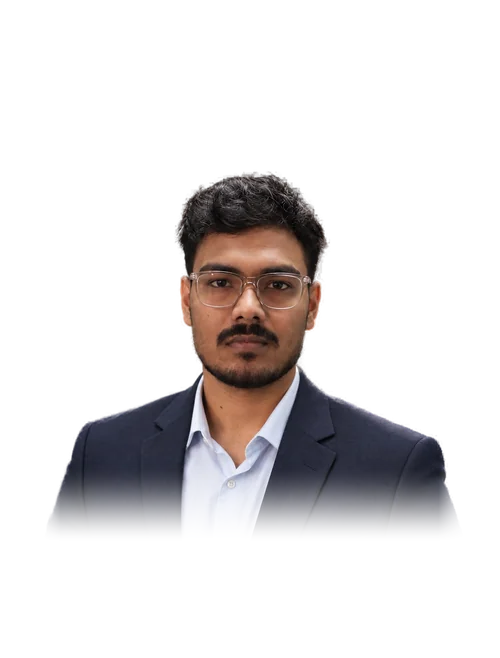
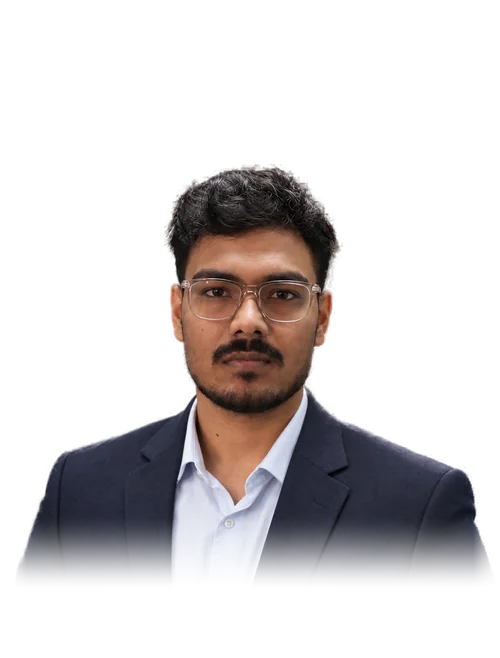
Add full team with framed photos; move rounds to 5 and 10 Oct
- Team: all heads from the CESA sheet with background-removed photos
  framed at a consistent head size; taller name shade
- Event flow: Round 1 closes 5 Oct, offline round on 10 Oct, shortlisting
  step removed; hero countdown and date line moved to 10 Oct
- Unique keys for timeline steps

Changed region(s): [[0.03, 0.2432, 0.99, 0.8815]]

diff --git a/src/team.js b/src/team.js
@@ -5,12 +5,17 @@ export const keepers = [
   { name: 'Rohit Soneji', role: 'Vice Chairperson', photo: 'rohit', github: 'https://github.com/SwiftByte6', linkedin: 'https://www.linkedin.com/in/rohit-soneji-9483a5344/' },
 ]
 
+// Grouped by domain: head first, then co-head
 export const heads = [
-  { name: 'Aditya Pathak', role: 'Technical Head' },
+  { name: 'Aditya Pathak', role: 'Technical Head', photo: 'aditya-pathak', github: 'https://github.com/1115ADITYA', linkedin: 'https://www.linkedin.com/in/aditya-pathak-26308b37a' },
   { name: 'Aditya Thombe', role: 'Technical Co-Head', photo: 'aditya-thombe', github: 'https://github.com/AdityaThombe', linkedin: 'https://www.linkedin.com/in/aditya-thombe-15b731395' },
-  { name: 'Piyusha Ghadigaonkar', role: 'Design Head', github: 'https://github.com/piyusha1961', linkedin: 'https://www.linkedin.com/in/piyusha-ghadigaonkar-0b1202360/' },
+  { name: 'Piyusha Ghadigaonkar', role: 'Design Head', photo: 'piyusha', github: 'https://github.com/piyusha1961', linkedin: 'https://www.linkedin.com/in/piyusha-ghadigaonkar-0b1202360/' },
+  { name: 'Aryan Nagaonkar', role: 'Design Co-Head', photo: 'aryan', github: 'https://github.com/aryan2557', linkedin: 'https://www.linkedin.com/in/aryannagaonkar/' },
+  { name: 'Pravajya Bansod', role: 'Documentation Head', photo: 'pravajya', github: 'https://github.com/PravajyaB', linkedin: 'https://www.linkedin.com/in/pravajya-bansod-20439b341/' },
+  { name: 'Dashmini Walke', role: 'Documentation Co-Head', photo: 'dashmini', github: 'https://github.com/walkedashmini-spec', linkedin: 'https://www.linkedin.com/in/dashmini-walke-002138389/' },
   { name: 'Punit Saini', role: 'Events & Ops Head', photo: 'punit', github: 'https://github.com/Punit1787', linkedin: 'https://www.linkedin.com/in/1787-punit-saini' },
   { name: 'Aakruti Ghag', role: 'Events & Ops Co-Head', photo: 'aakruti', github: 'https://github.com/Aakruti2007', linkedin: 'https://www.linkedin.com/in/aakrutighag' },
-  { name: 'Manya Shetty', role: 'Marketing Co-Head', github: 'https://github.com/codedbymanya', linkedin: 'https://www.linkedin.com/in/manya-shetty-63bb04374/' },
-  { name: 'Aman Patil', role: 'Media Co-Head', github: 'https://github.com/amanpa869', linkedin: 'https://www.linkedin.com/in/aman-patil-3bab7a3b8/' },
+  { name: 'Ranveer Patil', role: 'Media Head', github: 'https://github.com/Ranveer-Patil', linkedin: 'https://linkedin.com/in/ranveer-patil-6992513b6' },
+  { name: 'Aman Patil', role: 'Media Co-Head', photo: 'aman', github: 'https://github.com/amanpa869', linkedin: 'https://www.linkedin.com/in/aman-patil-3bab7a3b8/' },
+  { name: 'Manya Shetty', role: 'Marketing Co-Head', photo: 'manya', github: 'https://github.com/codedbymanya', linkedin: 'https://www.linkedin.com/in/manya-shetty-63bb04374/' },
 ]

diff --git a/src/components/Journey.jsx b/src/components/Journey.jsx
@@ -17,22 +17,17 @@ const steps = [
     points: ['Registrations open for Round 1', 'Participants submit their design entry', 'Teams/participants can register through Unstop'],
   },
   {
-    dot: [127.4, 498.6], date: '2nd Oct', dateAt: [156, 2810], at: [518, 2672], w: 540, bodyW: 400,
+    dot: [127.4, 498.6], date: '5th Oct', dateAt: [156, 2810], at: [518, 2672], w: 540, bodyW: 400,
     title: 'Round 1 Submission Closes',
     points: ['Final submission deadline for Round 1', 'Entries will be reviewed for shortlisting'],
   },
   {
-    dot: [176.4, 861.6], date: '5th Oct', dateAt: [501, 3163], at: [39, 3116], w: 369, bodyW: 260, lineW: 232,
-    title: 'Shortlisting Announcement',
-    points: ['Shortlisted participants announced', 'Selected participants receive further instructions'],
-  },
-  {
-    dot: [244.4, 1159.6], date: '9th Oct', dateAt: [474, 3393], at: [148, 3536], w: 573, bodyW: 432,
+    dot: [244.4, 1159.6], date: '10th Oct', dateAt: [474, 3393], at: [148, 3536], w: 573, bodyW: 432,
     title: 'FoF Seminar & Design Challenge',
     points: ['Seminar by Friends of Figma speakers', 'UI/UX, design thinking and Figma techniques', '3 problem statements revealed for the competition'],
   },
   {
-    dot: [598.4, 1053.6], date: '9th Oct', dateAt: [729, 3292], at: [753, 3453], w: 400, bodyW: 360,
+    dot: [598.4, 1053.6], date: '10th Oct', dateAt: [729, 3292], at: [753, 3453], w: 400, bodyW: 360,
     title: 'Final Presentation & Evaluation',
     points: ['Develop and present your UI/UX solution', 'Jury evaluation', 'Winner declaration'],
   },
@@ -146,7 +141,7 @@ export default function Journey() {
         </svg>
 
         {steps.map((s, i) => (
-          <div key={s.date}>
+          <div key={s.title}>
             <p className="ms__date" data-step={i} style={{ left: X(s.dateAt[0]), top: Y(s.dateAt[1]) }}>{s.date}</p>
             <div className="ms" data-step={i} style={{ left: X(s.at[0]), top: Y(s.at[1]), width: W(s.w) }}>
               <h3 className="ms__title">{s.title}</h3>
@@ -167,7 +162,7 @@ export default function Journey() {
       {/* Mobile: vertical timeline */}
       <ol className="journey__list" ref={listRef}>
         {steps.map((s, i) => (
-          <li key={s.date} data-lstep={i}>
+          <li key={s.title} data-lstep={i}>
             <span className="journey__list-dot" />
             <p className="ms__date">{s.date}</p>
             <h3 className="ms__title">{s.title}</h3>

diff --git a/src/components/Hero.jsx b/src/components/Hero.jsx
@@ -3,7 +3,7 @@ import { img, reducedMotion, scrollToId, useCountdown } from '../hooks'
 import { ExploreButton, RegisterButton } from './Buttons'
 
 // Offline designathon (finale) start — from the Unstop brief. Set the registration link here.
-export const EVENT_START = new Date('2026-10-09T10:00:00+05:30')
+export const EVENT_START = new Date('2026-10-10T10:00:00+05:30')
 export const REGISTER_URL = '#'
 
 // Scene layers on the 1440×1024 Figma frame. m = mouse parallax strength
@@ -80,7 +80,7 @@ export default function Hero() {
         <p className="hero__sub">
           An inter-collegiate UI/UX designathon <br />where ideas meet imagination…
         </p>
-        <p className="hero__when">Offline Designathon · 9 Oct 2026 · VIT, Mumbai</p>
+        <p className="hero__when">Offline Designathon · 10 Oct 2026 · VIT, Mumbai</p>
         <Countdown />
         <div className="hero__cta">
           <RegisterButton href="https://unstop.com/hackathons/drishti-vidyalankar-institute-of-technology-vit-mumbai-1755397" />

diff --git a/index.html b/index.html
@@ -10,7 +10,7 @@
     <meta name="viewport" content="width=device-width, initial-scale=1.0" />
     <meta name="theme-color" content="#0b0f3b" />
     <title>Drishti · CESA × FOF</title>
-    <meta name="description" content="DRISHTI — a UI/UX Designathon by CESA, Vidyalankar Institute of Technology (VIT), Mumbai, with Friends of Figma Mumbai. Offline finale on 9 Oct 2026." />
+    <meta name="description" content="DRISHTI — a UI/UX Designathon by CESA, Vidyalankar Institute of Technology (VIT), Mumbai, with Friends of Figma Mumbai. Offline finale on 10 Oct 2026." />
 
     <!-- fetch the first screen early so it can appear in one go -->
     <link rel="preconnect" href="https://fonts.googleapis.com" />
